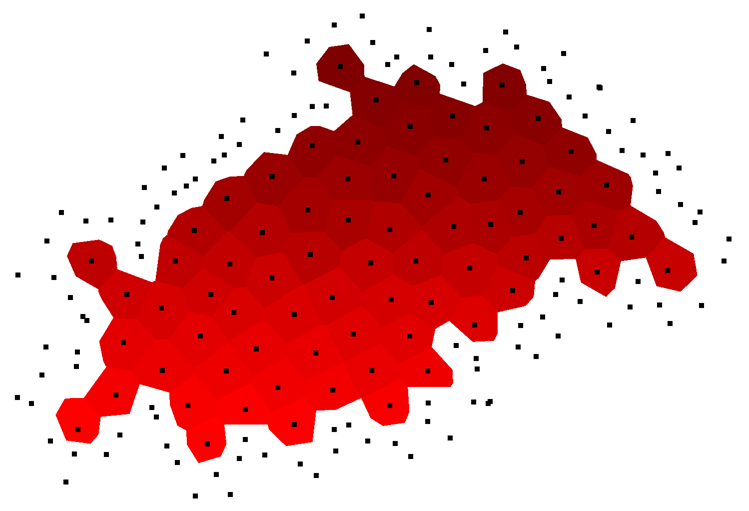
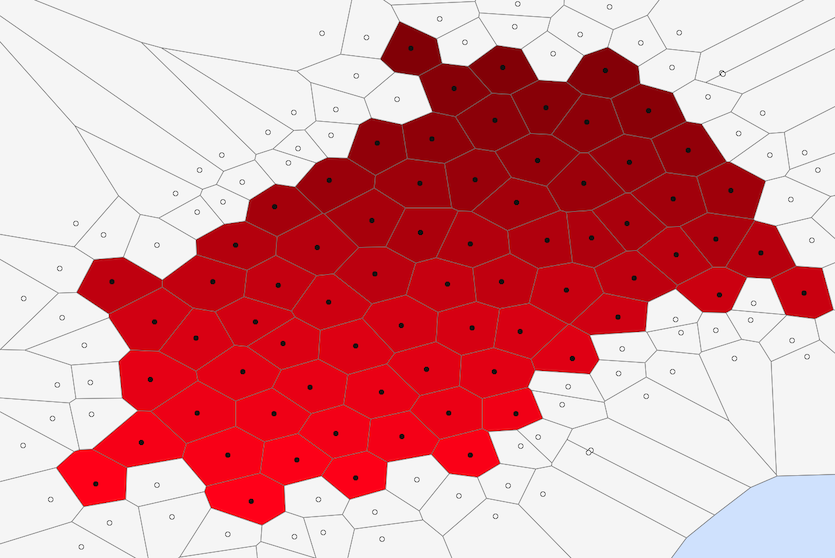
Update readme (#79)
* docs: autosave, and mention ic depths in readme
* update readme

diff --git a/README.md b/README.md
@@ -12,9 +12,9 @@ Should support Python versions 3.10 through 3.12 (and potentially 3.13 and 3.14 
 - Clone the repo, create a new Python environment, and run from the checkout.
 - `pip install -e .` inside that environment to install dependencies.
 
-### Recommended install
+### Using virtual environments
 
-The current recommended path is [uv](https://github.com/astral-sh/uv), since it can manage both Python and the project environment. From the cloned dir root:
+Recommended path is [uv](https://github.com/astral-sh/uv), since it can manage both Python and the project environment. From the cloned dir root:
 
 ```bash
 uv python install 3.12
@@ -22,8 +22,6 @@ uv venv --python 3.12
 source .venv/bin/activate
 uv pip install -e .
 ```
-
-### Standard-library fallback
 
 If you already have Python `3.10+` installed and don't want another tool involved, it's still recommended to use a virtual env:
 
@@ -39,7 +37,7 @@ Derivation of map electrode numbers and their coordinates from images uses a bui
 
 - The bundled fallback font lives at `resources/OCR-A.otf`.
 - If `resources/digit_templates.npz` exists, that template set is preferred over the font.
-- During analysis or preview, you can also browse to any `.npz`, `.ttf`, or `.otf` OCR template source manually.
+- During analysis or OCR template preview, you can also browse to any `.npz`, `.ttf`, or `.otf` OCR template source manually.
 
 ### (optional) Dadroit JSON viewer
 https://dadroit.com/download Simple tool to view JSON files as a tree structure like a file explorer. Helps to investigate any potential issues in the JSON database files -- these are typically too large to open (or at least open comfortably) in normal text editor programs.
@@ -70,10 +68,10 @@ At the CLI, choose `o`.
 
 Available actions:
 
-- `b` bootstraps a new OCR template set from a numbers image plus matching mask image (useful if using a font unavailable as a standalone font file for some reason).
+- `b` bootstraps a new OCR template set from a numbers image plus matching mask image (useful if using a font unavailable as a standalone font file for some reason). Bootstrap output can go either to the default path `resources/digit_templates.npz` or to another `.npz` file of your choice.
 - `p` previews an OCR source before analysis (saved `.npz` template, or `.otf`/`.ttf` font file).
 
-Bootstrap output can go either to the default path `resources/digit_templates.npz` or to another `.npz` file of your choice.
+![OCR preview](resources/img/ocr_preview.png)
 
 ### New project configuration
 
@@ -92,7 +90,7 @@ At the CLI, choose `a` after loading a project configuration to run auto-analysi
 What the workflow expects:
 
 - Neural data files in `.src` or `.f32` BrainWare format.
-- Electrode coordinate data from images, a lab-style final file, or a `.csv`.
+- Electrode coordinate data from images, a lab-style final file, or a `.csv` (or a depths `.csv` if analyzing an IC map).
 - Optional OCR source selection if image-based coordinates are used.
 
 The image-based coordinate flow uses three grayscale `.png` images:
@@ -122,15 +120,15 @@ For the included demo, use:
 - `demo/img/demo_num.png`
 - `demo/data/`
 
-### Voronoi tessellation and boundary editing
+### Voronoi tessellation and boundary editing GUI
 
-In auditory cortical maps, each point on the cortical surface is assumed to have the characteristics of the closest sampled penetration. A voronoi tessellation is generated from the map electrode x/y data. To prevent outer edges extending to infinity, an initial set of border points is automatically generated around the perimeter of the map (and their corresponding polygons ignored):
+In auditory cortical maps, each point on the cortical surface is assumed to have the characteristics of the closest sampled penetration. A voronoi tessellation is generated from the map electrode x/y data. To prevent outer edges extending to infinity, an initial set of border points is automatically generated around the perimeter of the map (and their corresponding polygons ignored:
 
 ![Initial set of automatic border points around voronoi tessellation](resources/img/demo_prevor.png)
 
 In most real datasets you will still want to add or trim a few border points manually to keep the outer polygons reasonably shaped.
 
-**Controls:**
+**Voronoi Picker GUI Controls:**
 - Interaction menu / toolbar: switch between Add, Move, Delete, and Pan modes
 - A / M / D / P: keyboard shortcuts for those interaction modes
 - Move and Delete modes: hover near a buffer point to target it with a ring
@@ -138,7 +136,9 @@ In most real datasets you will still want to add or trim a few border points man
 - Mouse wheel or View menu: zoom; Pan mode drags the view
 - Export or Accept and Export: save reusable buffer-point CSV files
 - Load: bring a saved buffer-point CSV back into the picker
-- Esc / Accept / Close window: accept border points
+- Esc / Accept / Close window: accept border points (no export)
+
+Here's the same map with a little manual refinement on the border edges:
 
 ![Voronoi tessellation after manually adding more border points](resources/img/demo_postvor.png)
 
@@ -164,7 +164,6 @@ DenseTC analysis is the main automated path. Speech and noiseburst definitions e
 ### Generate analysis from a final file
 
 At the CLI, choose `g`.
-
 This is the lab-specific path for generating a subject analysis database from an existing final-file based `.xlsx` spreadsheet.
 
 ### Final-file export
@@ -184,12 +183,9 @@ The GUI is used to manually inspect and edit DenseTC analyses, assign cortical f
 
 GUI notes:
 
-- Loading a map can take a while.
-- Saving can take a while.
 - Rendering "smooth TCs" can take a while the first time (subsequent renders use cached TC)
-- There is currently no autosave.
-- You will see `*** Ready! ***` in the terminal when plot generation finishes.
-- It may be necessary to zoom out with the mouse wheel when a map first opens.
+- Unsaved GUI edits are backed up to a sidecar `.autosave` file next to
+  the subject database and can be recovered on the next load.
 
 ## GUI overview
 
